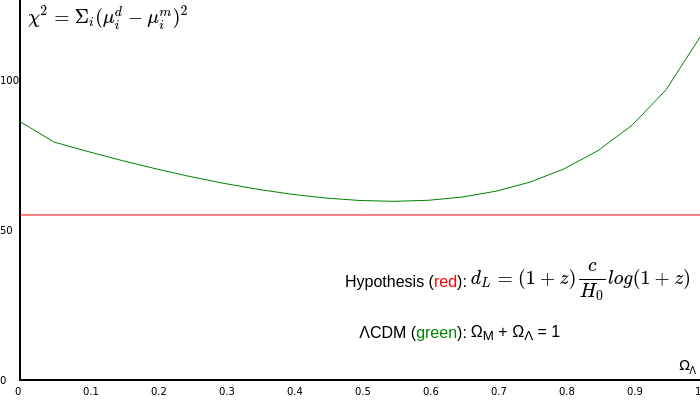
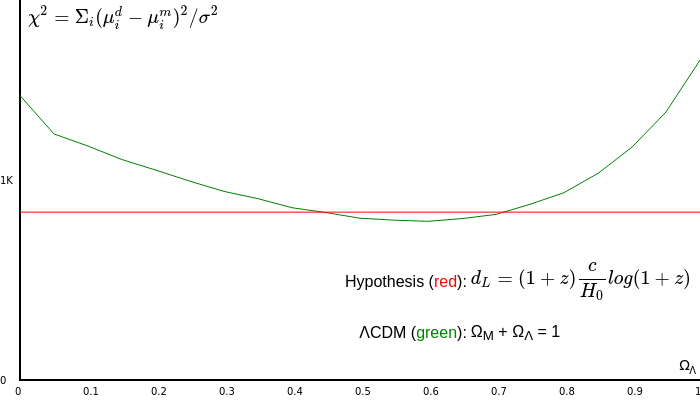
sselcdm

diff --git a/other/sse2.htm b/other/sse2.htm
@@ -77,7 +77,7 @@
     <canvas id="graph" height="400" width="700"></canvas>
     <table id="y-axis">
         <tr>
-            <td>\[\chi^2 = \Sigma_i (\mu_i^{d} - \mu_i^{m})^2  \]</td>
+            <td>\[\chi^2 = \Sigma_i (\mu_i^{d} - \mu_i^{m})^2 / \sigma^2 \]</td>
         </tr>
     </table>
     </div>
@@ -156,8 +156,8 @@ var black = false
         zoomGY = getZoom()
         calculateDistances()
         drawGraph()
-        drawData()
         calculateLCDMErrors()
+        drawData()
     }
 
     var c = 1
@@ -171,7 +171,7 @@ var black = false
 
     var getZoom = () => {
         if (useMu) {
-            return useError ? zoom / 7000 : zoom * 3 
+            return useError ? zoom * 0.2 : zoom * 3 
         }
         else {
             return  (useError ? zoom / 1200000 : zoom / 70000)   
@@ -222,13 +222,6 @@ var black = false
     }
     
     
-    // the models advance by 1 million years each step
-    // the units for distance are in Mly (million light years)
-
-    // the speed of light is 1 million lightyears per million years
-    
-    // Hubble's Constant (H) is in units of Gly^-1 or ly/y/Gly, so it is divided by 1000  
-    
     function drawGraph() {
         sseHypothesis = 0
         
@@ -260,9 +253,9 @@ var black = false
         var dgi
         ctxB.font = "10px sans-serif"
         ctxB.fillStyle = "black"
-        var range = useMu ? !useError ? [0.00005, 0.0001] : [1, 2] : !useError ? [5, 25] : [100, 1000]
+        var range = useMu ? !useError ? [0.00005, 0.0001] : [0.001, 0.002] : !useError ? [5, 25] : [100, 1000]
         for (dgi = 0; dgi <= range[1] * 1e6; dgi+=range[0] * 1e6) {
-            ctxB.fillText(dgi, 0, -offset + graph.height - dgi * zoomGY + 4)    
+            ctxB.fillText(dgi.toString().replace("000", "K"), 0, -offset + graph.height - dgi * zoomGY + 4)    
         }
         
         for (dgi = 0; dgi < 11; dgi+=1) {
@@ -271,6 +264,7 @@ var black = false
     }
 
     function drawData() {
+        var hypothesis = useError ? 839.3 : 55.01
         graph.width = graph.width
         ctxG.fillStyle = !black ? "black" : "white"
             
@@ -286,10 +280,10 @@ var black = false
         
         ctxG.strokeStyle = "red"
         ctxG.beginPath()
-        ctxG.moveTo(offset, graph.height - 55.01 * zoomGY - offset)
+        ctxG.moveTo(offset, graph.height - hypothesis * zoomGY - offset)
 
         ctxG.lineTo(offset + graph.width * zoomG, 
-                    -offset + graph.height - 55.01 * zoomGY)
+                    -offset + graph.height - hypothesis * zoomGY)
         ctxG.stroke()
         
     }
@@ -312,7 +306,7 @@ var black = false
         for (var i = 1; i < lines.length; i++) {
             var line = lines[i].split(",")
             if (line[0]) {
-                var sn = {"dm": parseFloat(line[2]), "z": parseFloat(line[0]), "derr": parseFloat(line[0])}
+                var sn = {"dm": parseFloat(line[2]), "z": parseFloat(line[0]), "derr": parseFloat(line[3])}
                 snData.push(sn)
 
             }
